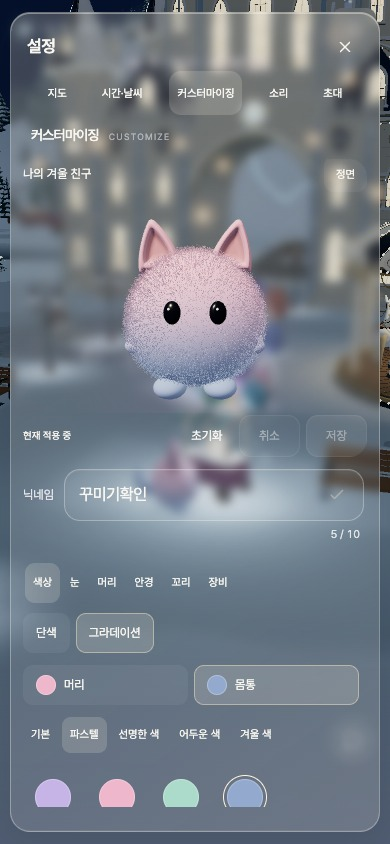
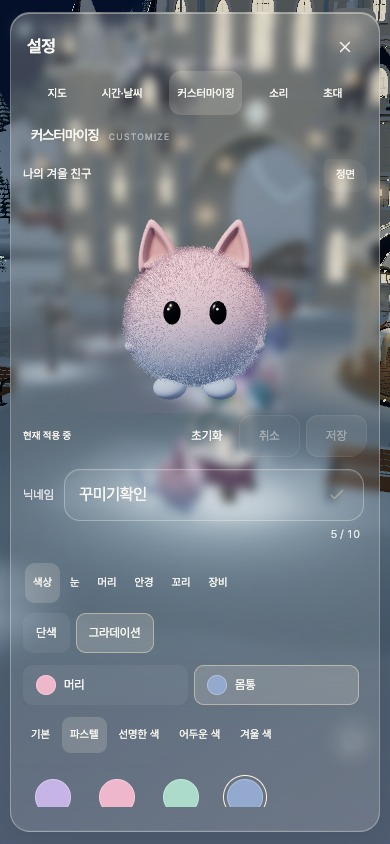
Correct cat tail coat distribution and natural proportions

diff --git a/dist/character-tail.js b/dist/character-tail.js
@@ -4,10 +4,12 @@ const cache=new Map();
 function tailGeometry(round){
  if(cache.has(round))return cache.get(round);
  // A low, rearward sweep keeps the tip below the body's centre.
- const curve=new T.CatmullRomCurve3([[0,0,0],[.11,-.025,-.17],[.29,-.01,-.34],[.47,.055,-.46],[.59,.16,-.49],[.62,.27,-.46]].map(p=>new T.Vector3(...p)));
+ const curve=new T.CatmullRomCurve3([[0,0,0],[.06,-.01,-.16],[.18,0,-.35],[.34,.065,-.55],[.47,.18,-.68],[.52,.32,-.70],[.49,.42,-.67]].map(p=>new T.Vector3(...p)));
  const segments=24,sides=14,geometry=round?new T.SphereGeometry(.17,20,16).translate(0,0,-.1):new T.TubeGeometry(curve,segments,1,sides,false);
- const frames=curve.computeFrenetFrames(segments,false),matrices=[],count=round?1200:1800;
- const radius=t=>.135-.04*T.MathUtils.smoothstep(t,0,1);
+ const frames=curve.computeFrenetFrames(segments,false),matrices=[],shades=[],count=round?1200:4200;
+ const radius=t=>.085-.014*T.MathUtils.smoothstep(t,0,1);
+ let seed=72631;const random=()=>{seed=(seed*16807)%2147483647;return(seed-1)/2147483646;};
+ const binormal=new T.Vector3();
  if(!round){
   const a=geometry.attributes.position;
   for(let i=0;i<a.count;i++){const t=Math.floor(i/(sides+1))/segments,c=curve.getPointAt(t),r=radius(t);a.setXYZ(i,c.x+(a.getX(i)-c.x)*r,c.y+(a.getY(i)-c.y)*r,c.z+(a.getZ(i)-c.z)*r);}
@@ -15,48 +17,53 @@ function tailGeometry(round){
  }
  const dummy=new T.Object3D(),up=new T.Vector3(0,1,0),normal=new T.Vector3(),direction=new T.Vector3(),tipPoint=curve.getPointAt(1),tipTangent=curve.getTangentAt(1);
  for(let i=0;i<count;i++){
-  const t=(i*.62403398875)%1,a=i*2.39996323;
+  let t=round?(i*.62403398875)%1:random(),a=round?i*2.39996323:random()*Math.PI*2;
+  // Independent random angle/length avoids the old diagonal bands of bare skin.
+  if(!round&&i%12!==0)while(random()>.835+.165*(1-t))t=random();
   if(round){const y=t*2-1,r=Math.sqrt(1-y*y);normal.set(r*Math.cos(a),y,r*Math.sin(a));dummy.position.copy(normal).multiplyScalar(.17);dummy.position.z-=.1;}
-  else if(i%10===0){
+  else if(i%12===0){
    // Cover the rounded end cap too, instead of leaving a bald pin tip.
    const r=Math.sqrt(1-t*t);normal.copy(frames.normals[segments]).multiplyScalar(r*Math.cos(a)).addScaledVector(frames.binormals[segments],r*Math.sin(a)).addScaledVector(tipTangent,t);
    dummy.position.copy(tipPoint).addScaledVector(normal,radius(1));
   }else{
-   const k=Math.min(segments,Math.round(t*segments));normal.copy(frames.normals[k]).multiplyScalar(Math.cos(a)).addScaledVector(frames.binormals[k],Math.sin(a));dummy.position.copy(curve.getPointAt(t)).addScaledVector(normal,radius(t));
-   direction.copy(curve.getTangentAt(t));normal.addScaledVector(direction,.18).normalize();
+   const f=t*segments,k=Math.min(segments-1,Math.floor(f)),blend=f-k;normal.copy(frames.normals[k]).lerp(frames.normals[k+1],blend).normalize();binormal.copy(frames.binormals[k]).lerp(frames.binormals[k+1],blend).normalize();normal.multiplyScalar(Math.cos(a)).addScaledVector(binormal,Math.sin(a)).normalize();dummy.position.copy(curve.getPointAt(t)).addScaledVector(normal,radius(t));
+   direction.copy(curve.getTangentAt(t));normal.addScaledVector(direction,.12).normalize();
   }
-  dummy.quaternion.setFromUnitVectors(up,normal);dummy.rotateY(a);dummy.scale.set(1,(round?.76:.80)+.12*Math.sin(i*5),1);dummy.updateMatrix();matrices.push(dummy.matrix.clone());
+  dummy.quaternion.setFromUnitVectors(up,normal);dummy.rotateY(a);dummy.scale.set(1,round?.76+.12*Math.sin(i*5):.80+random()*.35,1);dummy.updateMatrix();matrices.push(dummy.matrix.clone());shades.push(.91+.07*Math.max(0,normal.y*.65+normal.z*.3)+(round?0:random()*.015));
  }
  geometry.userData.shared=true;
  const tip=round?null:new T.SphereGeometry(radius(1),20,16).translate(...tipPoint.toArray());if(tip)tip.userData.shared=true;
- const result={geometry,tip,matrices,count};cache.set(round,result);return result;
+ const result={geometry,tip,matrices,shades,count};cache.set(round,result);return result;
 }
 
 function softTipMaterial(material,bend){
- const paint=material.clone();paint.emissive?.set(0);paint.emissiveIntensity=0;
+ const paint=material.clone();
  paint.onBeforeCompile=shader=>{
   shader.uniforms.tailBend=bend;
   shader.vertexShader='uniform float tailBend;\n'+shader.vertexShader;
   // Apply after instancing so the coat and skin bend together. No CPU mesh updates.
-  shader.vertexShader=shader.vertexShader.replace('#include <project_vertex>',T.ShaderChunk.project_vertex.replace('mvPosition = modelViewMatrix * mvPosition;', 'mvPosition.x += tailBend * pow(smoothstep(0.10,0.46,-mvPosition.z),2.0);\nmvPosition = modelViewMatrix * mvPosition;'));
+  shader.vertexShader=shader.vertexShader.replace('#include <project_vertex>',T.ShaderChunk.project_vertex.replace('mvPosition = modelViewMatrix * mvPosition;', 'mvPosition.x += tailBend * pow(smoothstep(0.12,0.70,-mvPosition.z),2.0);\nmvPosition = modelViewMatrix * mvPosition;'));
  };
- paint.customProgramCacheKey=()=>'short-plush-tail-v1';return paint;
+ paint.customProgramCacheKey=()=>'groomed-cat-tail-v2';return paint;
 }
 
 export function createCharacterTail(parent,{velvet,fibreMaterial,fibreGeometry,remote=false}){
  const root=new T.Group();root.name='plush-tail';root.position.set(0,-.3,-.59);parent.add(root);
  const bend={value:0},catVelvet=softTipMaterial(velvet,bend),catFur=softTipMaterial(fibreMaterial,bend),depthSource=new T.MeshDepthMaterial({depthPacking:T.RGBADepthPacking}),depth=softTipMaterial(depthSource,bend);depthSource.dispose();
- const choices=new Map();
+ const choices=new Map();let catCoat=null,catData=null,catCapacity=0;const groomingMatrix=new T.Matrix4(),groomingScale=new T.Vector3();
  for(const [id,round]of [['tail-cat',false],['tail-round',true]]){
-  const data=tailGeometry(round),group=new T.Group(),body=new T.Mesh(data.geometry,round?velvet:catVelvet),fur=new T.InstancedMesh(fibreGeometry,round?fibreMaterial:catFur,remote?(round?240:320):data.count);
+  const data=tailGeometry(round),group=new T.Group(),body=new T.Mesh(data.geometry,round?velvet:catVelvet),fur=new T.InstancedMesh(fibreGeometry,round?fibreMaterial:catFur,remote?(round?240:650):round?data.count:(globalThis.innerWidth??1024)<650?3000:data.count);
   group.name=id;body.name=id+'-body';body.castShadow=true;if(!round)body.customDepthMaterial=depth;group.add(body,fur);
   if(data.tip){const tip=new T.Mesh(data.tip,catVelvet);tip.castShadow=true;tip.customDepthMaterial=depth;group.add(tip);}
-  for(let i=0;i<fur.count;i++)fur.setMatrixAt(i,data.matrices[i]);fur.instanceMatrix.needsUpdate=true;group.visible=false;root.add(group);choices.set(id,group);
+  if(!round){catCoat=fur;catData=data;catCapacity=fur.count;fur.name='cat-tail-coat';}
+  for(let i=0;i<fur.count;i++){fur.setMatrixAt(i,data.matrices[i]);if(!round)fur.setColorAt(i,new T.Color().setScalar(data.shades[i]));}fur.instanceMatrix.needsUpdate=true;group.visible=false;root.add(group);choices.set(id,group);
  }
  let selected='',previousTime=null,previousYaw=0,lag=0;root.visible=false;
  return {
   select(items){selected=items.find(id=>choices.has(id))||'';for(const[id,g]of choices)g.visible=id===selected;root.visible=!!selected;previousTime=null;lag=0;},
-  color(color){catVelvet.color.set(color);catVelvet.sheenColor?.set(color);catFur.color.set(color);},
+  color(color){catVelvet.color.set(color);catVelvet.sheen=.45;catVelvet.sheenColor.set(color);catVelvet.emissive.set(color);catVelvet.emissiveIntensity=velvet.emissiveIntensity;catFur.color.set(color);catFur.emissive.set(color);catFur.emissiveIntensity=fibreMaterial.emissiveIntensity;},
+  groom(fluff){groomingScale.set(1,.65+fluff/100*.35,1);for(let i=0;i<catCapacity;i++){groomingMatrix.copy(catData.matrices[i]).scale(groomingScale);catCoat.setMatrixAt(i,groomingMatrix);}catCoat.instanceMatrix.needsUpdate=true;},
+  setViewDetail(pixels){const density=T.MathUtils.clamp((Math.max(0,pixels)/220)**1.25,remote?.35:.18,1);catCoat.count=Math.max(1,Math.round(catCapacity*density));},
   dispose(){depth.dispose();},
   pose({time=0,phase=0,walking=false,still=false,spa=false,yaw=0}){
    root.visible=!!selected&&!spa;if(!root.visible){previousTime=null;return;}

diff --git a/dist/companion.js b/dist/companion.js
@@ -44,9 +44,9 @@ export function createCompanion({detail='full'}={}){
   // At walking-camera distance most fibres are subpixel. Preserve full grooming
   // in close-ups and the wardrobe, and use the same uniformly distributed fur.
   const density=THREE.MathUtils.clamp((Math.max(0,pixels)/220)**1.25,detail==='remote'?.28:.06,1);
-  fur.count=Math.min(count,Math.max(1,Math.round(count*density)));
+  fur.count=Math.min(count,Math.max(1,Math.round(count*density)));tail.setViewDetail(pixels);
  }
- function groom(fluff){if(lastFluff===fluff)return;lastFluff=fluff;
+ function groom(fluff){if(lastFluff===fluff)return;lastFluff=fluff;tail.groom(fluff);
   for(let i=0;i<count;i++){const f=fibres[i],eyeDistance=Math.min(Math.hypot((f.position.x-.205)/.13,(f.position.y-.075)/.15),Math.hypot((f.position.x+.205)/.13,(f.position.y-.075)/.15)),faceBlend=f.position.z>.45?1-Math.exp(-eyeDistance*eyeDistance*1.5):1;
    dummy.position.copy(f.position);dummy.quaternion.setFromUnitVectors(up,f.normal);dummy.rotateY(f.twist);
    // A continuous radial falloff avoids a rectangular shaved patch around the eyes.
